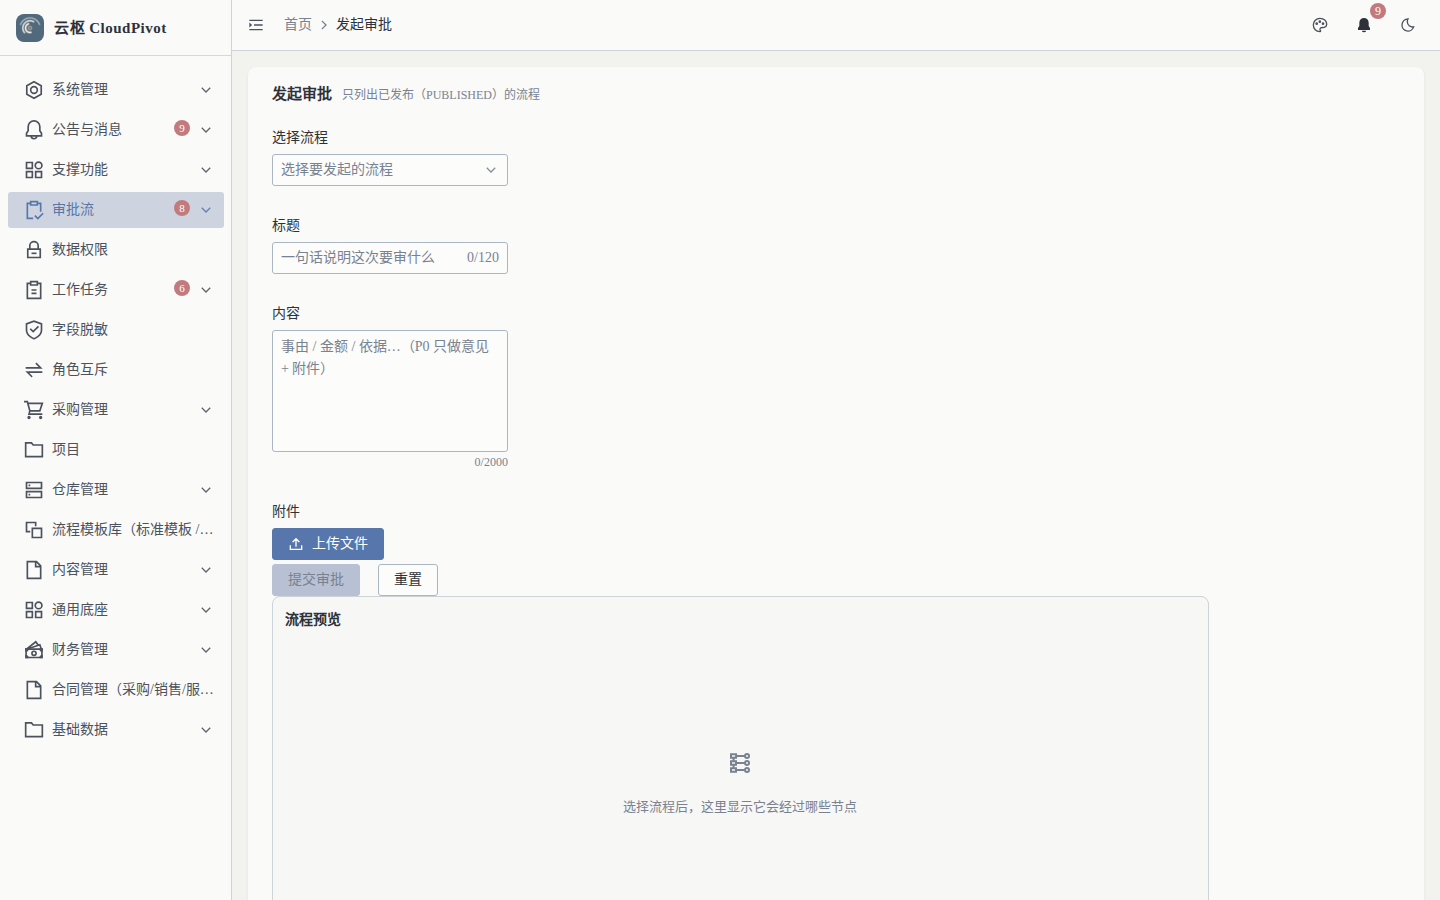
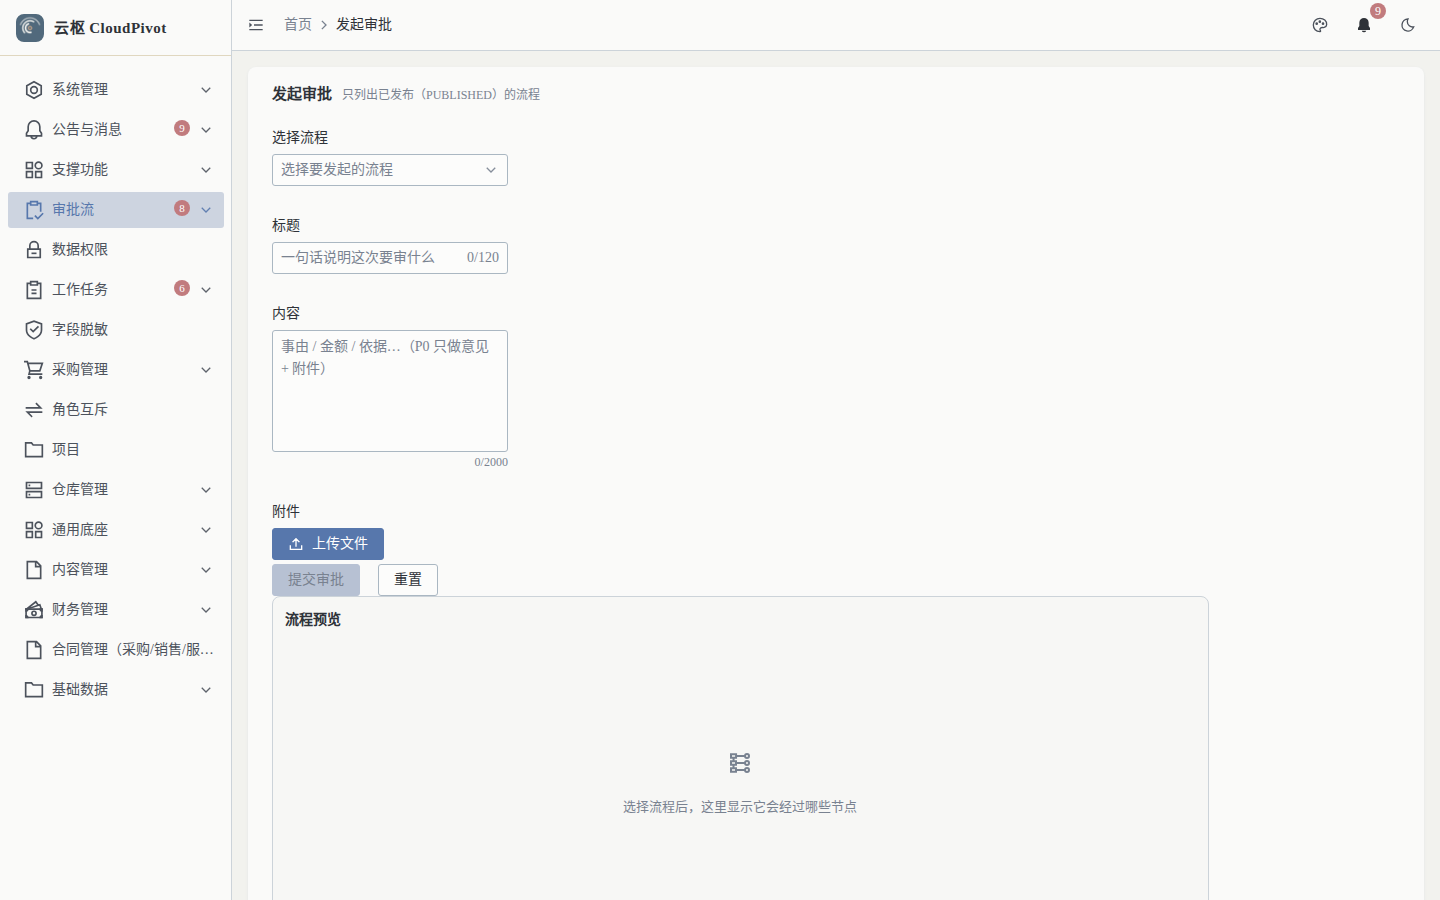
docs(manual): P2-6e 手册《02-审批流》与采集脚本跟进菜单收口（模板库→标准流程 Tab）(t_08601316)
- capture.mjs flow phase：『/flow/templates + 流程模板库 + flow-templates』→『/flow/def?view=standard
  + 标准流程 + flow-standard-wall』，并加两条断言：地址栏必须含 view=standard、document.title
  不得再出现旧术语（否则记 !! 失败），日志额外打印命中地址栏
- docs/manual/02-审批流.md：6 处「模板库/模板」全部改为「标准流程」，步骤 3 重写为
  「从『标准流程』复制成我的流程」，补『另存为 = 复制成我的流程 / 标准流程本身不能改图 /
  编辑器里的另存为新草稿是版本演进』三句；步骤 1 补两 Tab 说明与 is_system=TRUE 口径；
  常见错误表加两行（标准流程只读、老入口已下线）
- 截图：03-flow-standard-wall.png（标准流程 Tab 激活 + 13 条卡片墙）替换 03-flow-templates.png
  （旧图保留在 git 历史）
- 证据：p26e-capture-run{1,2}.log.txt（flow phase 连跑两轮、各 7 张 0 失败）、
  p26e-capture-diff.txt（diff 0 行）、p26e-menu-api.txt（菜单 81 节点、无模板库、sys_menu 软删行）

只按路径暂存本卡 14 个文件，未吞工作区他人未提交改动。

diff --git a/docs/manual/02-审批流.md b/docs/manual/02-审批流.md
@@ -10,7 +10,7 @@
 
 ## 一、这个功能干什么
 
-配置审批流程定义与版本（画布编辑器、发布、停用），从模板库一键复制流程，并按流程发起审批、处理待办（同意 / 驳回 / 转办 / 加签）、查看我已审批与我发起的单据。
+配置审批流程定义与版本（画布编辑器、发布、停用），把系统预置的「标准流程」另存（复制）成自己的流程，并按流程发起审批、处理待办（同意 / 驳回 / 转办 / 加签）、查看我已审批与我发起的单据。
 
 ---
 
@@ -18,8 +18,8 @@
 
 | 事项 | 说明 |
 | --- | --- |
-| 菜单 | 审批流（`/flow`）→ 流程定义 / 发起审批 / 审批中心 / 流程模板库 |
-| 查看流程定义、模板库 | `business:flow:read` |
+| 菜单 | 审批流（`/flow`）→ 流程定义 / 发起审批 / 审批中心（「标准流程」是**流程定义页**里的第二个 Tab，不单设菜单） |
+| 查看流程定义（含「标准流程」Tab） | `business:flow:read` |
 | 新建 / 编辑 / 删除流程 | `business:flow:create` / `:update` / `:delete` |
 | 发布 | `business:flow:publish` |
 | 发起审批 | `business:flow:instance:create` |
@@ -54,6 +54,13 @@
 
 列表列：编码、名称、状态、当前版本、图规模、业务类型、更新时间、操作。实测 20 条。
 
+页面顶部是**两个 Tab**：
+
+- 「我的流程」（默认）：**全部**流程定义的表格（含标准流程），新建 / 编辑 / 发布 / 停用 / 删除都在这里；
+- 「标准流程」：系统预置流程的**只读卡片墙**，见步骤 3。
+
+> 「标准流程」不是另一个实体：它与「我的流程」是**同一张表（流程定义）**的两种视角 —— 「标准流程」= `is_system = TRUE` 的那批流程定义（系统预置，开箱即用、只读）。
+
 操作列按状态出现：`发布` / `停用` / `删除` / `提交审批` / `边配置`。
 
 ### 步骤 2　打开画布编辑器
@@ -70,13 +77,21 @@
 - **已发布的版本是只读的**，顶部横幅原文：`v2 已发布，如需修改请另存新草稿（已发布版本的图不可静默修改）`，点横幅里的「另存为新草稿」再改（后端文案：`版本已发布，不能直接编辑（请先「另存为新草稿」再改）`）。
 - 发布前先点「校验」，图校验不通过不允许发布。
 
-### 步骤 3　从模板库复制流程
+### 步骤 3　从「标准流程」复制成我的流程
 
-菜单「流程模板库」（`/flow/templates`）。
+在流程定义页切到「标准流程」Tab，地址栏是 `/flow/def?view=standard`（可收藏、可分享；老书签 `/flow/templates` 会自动跳到这个地址）。
 
-![流程模板库](images/flow/03-flow-templates.png)
+![标准流程](images/flow/03-flow-standard-wall.png)
 
-按业务域分页签：全部 / 采购管理 / 仓库管理 / 财务管理 / 任务 / 合同管理 / 库存管理 / 未分类 / 系统。每张模板可「查看流程图」「复制并去编辑」「另存为」「停用」。
+- 卡片墙按业务域分页签：全部 / 采购管理 / 仓库管理 / 财务管理 / 任务 / 合同管理 / 库存管理 / 系统（页签带条数，如「财务管理（5）」）。实测 13 条标准流程。
+- 每张卡片显示：名称、`标准` / `默认` 标签、启用状态、适用场景（条件分流摘要）、`节点数 · 连线条数`、已用次数、最近使用日期、流程编码与业务类型。
+- 卡片操作只有三个：`查看流程图`（只读抽屉）、`另存为`、`停用` / `启用`。**没有编辑、没有删除** —— 标准流程是系统预置的。
+
+> **新手常问：「另存为」和「另存为新草稿」到底差在哪？**
+>
+> - 卡片墙上的 **「另存为」= 把整条标准流程复制成「我的流程」**：弹窗标题「另存为自定义流程」，按钮「复制并去编辑」，复制完直接进编辑器 —— 之后改的是**你的那份副本**，标准流程本身不变。
+> - **标准流程本身不能改图**（只读）。想在自己的业务里调整节点 / 条件，只能先「另存为」。
+> - 编辑器里的 **「另存为新草稿」**是另一件事：给**同一条流程的已发布版本**开一份新草稿（版本演进），不是复制成新流程。
 
 ### 步骤 4　发起审批
 
@@ -122,6 +137,8 @@
 | 现象 | 原因 | 处理 |
 | --- | --- | --- |
 | 编辑已发布流程被拒 | 已发布版本只读 | 「另存为新草稿」→ 改 → 校验 → 发布 |
+| 标准流程改不了（没有编辑 / 删除按钮） | 标准流程是系统预置、只读 | 在「标准流程」Tab 点「另存为」→「复制并去编辑」，改自己的副本；标准流程本身不动 |
+| 侧边栏找不到以前的预置流程入口 | 老入口已下线（两个入口收敛为一个） | 走「流程定义」→「标准流程」Tab（`/flow/def?view=standard`），卡片墙在那里 |
 | 发布按钮提示校验失败 | 画布存在孤立节点、缺审批人、缺出边 | 点「校验」按提示补齐节点与连线 |
 | 业务单据提交审批报「已有审批中实例」 | 同一单据同时只能有一个在跑审批 | 到审批中心处理完或撤回原实例后再提交 |
 | 撤回后重新提交报 409 | 旧实例未终止 | 撤回会同时终止在跑审批单；若仍冲突，刷新单据状态再提交 |
